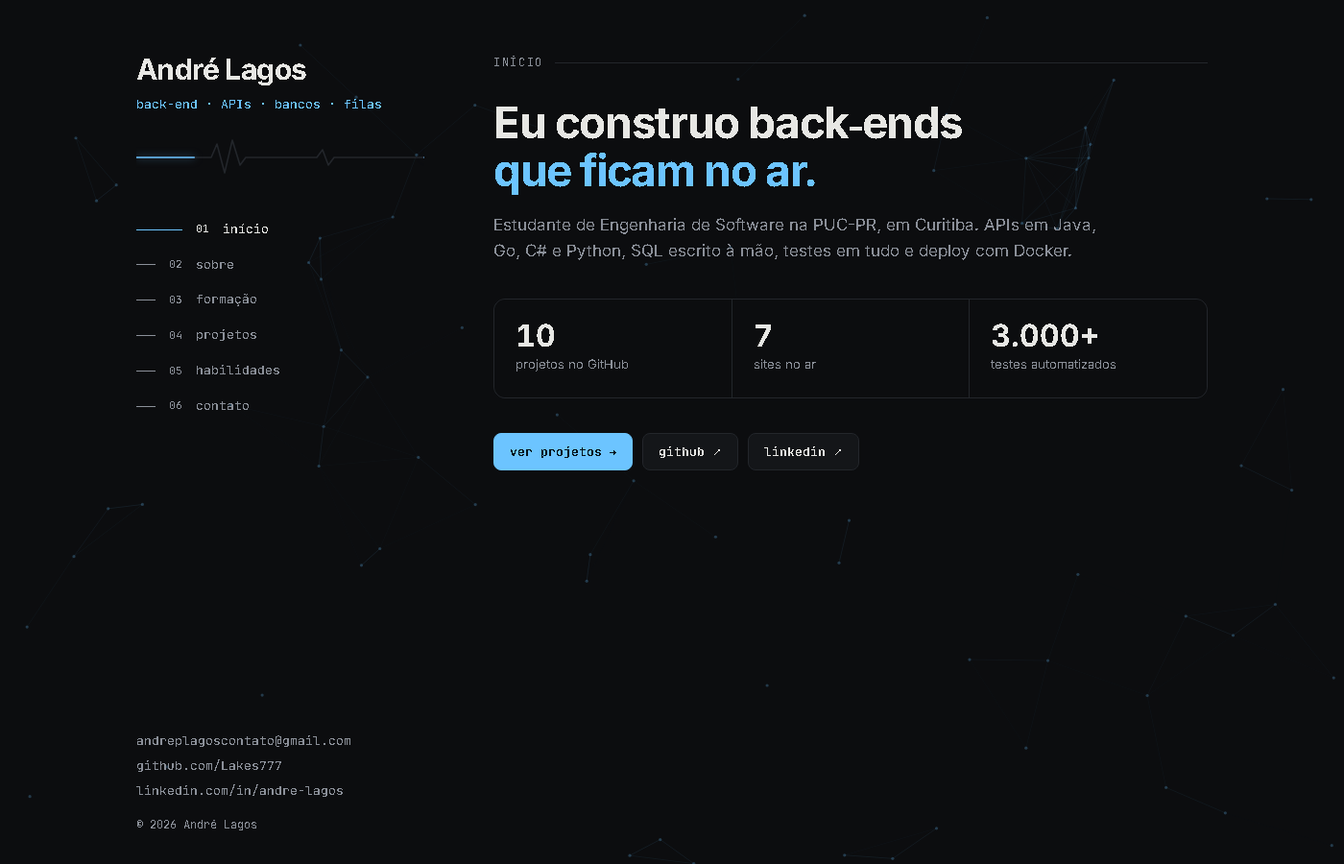
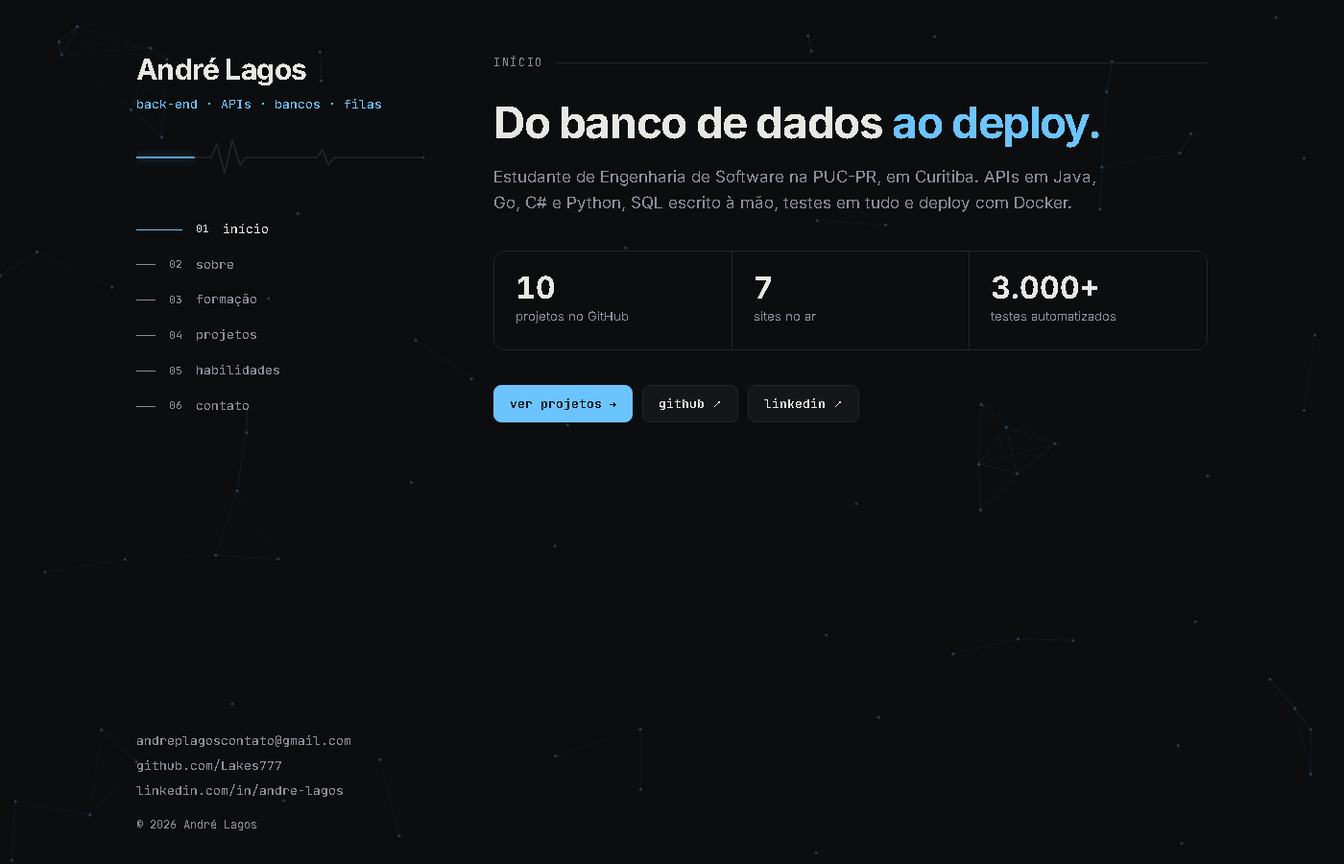
Acende a borda dos cards perto do mouse e liga cada habilidade aos projetos
Números que contam a cada abertura do Início, entrada das abas mais lenta,
frase nova (Do banco de dados ao deploy) e habilidades com onde foram usadas.

Changed region(s): [[0.3686, 0.1244, 0.8293, 0.56], [0.5836, 0.4667, 0.6143, 0.5289]]

diff --git a/index.html b/index.html
@@ -56,7 +56,7 @@
       <!-- ===== INÍCIO ===== -->
       <section id="inicio" aria-labelledby="t-inicio">
         <p class="rotulo mono">início</p>
-        <h1 class="item" id="t-inicio" tabindex="-1">Eu construo back‑ends <em>que ficam no ar.</em></h1>
+        <h1 class="item" id="t-inicio" tabindex="-1">Do banco de dados <em>ao deploy.</em></h1>
         <p class="lead item">Estudante de Engenharia de Software na PUC-PR, em Curitiba. APIs em Java, Go, C# e Python, SQL escrito à mão, testes em tudo e deploy com Docker.</p>
         <div class="numeros item">
           <div><b data-contar="10">10</b><small>projetos no GitHub</small></div>
@@ -81,10 +81,10 @@
           <p>Estou em busca de oportunidades em <strong>desenvolvimento</strong>, <strong>suporte técnico</strong> ou <strong>análise de dados</strong>, onde eu possa aplicar o que sei e continuar aprendendo.</p>
         </div>
         <ul class="cartoes item">
-          <li class="cartao"><small class="mono">formação</small><p>Eng. de Software · PUC-PR</p></li>
-          <li class="cartao"><small class="mono">back-end</small><p>Java, Go, C# e Python</p></li>
-          <li class="cartao"><small class="mono">deploy</small><p>Docker, Linux e GitHub Actions</p></li>
-          <li class="cartao"><small class="mono">idiomas</small><p>Inglês intermediário</p></li>
+          <li class="cartao luz"><small class="mono">formação</small><p>Eng. de Software · PUC-PR</p></li>
+          <li class="cartao luz"><small class="mono">back-end</small><p>Java, Go, C# e Python</p></li>
+          <li class="cartao luz"><small class="mono">deploy</small><p>Docker, Linux e GitHub Actions</p></li>
+          <li class="cartao luz"><small class="mono">idiomas</small><p>Inglês intermediário</p></li>
         </ul>
       </section>
 
@@ -113,7 +113,7 @@
         <p class="rotulo mono">projetos</p>
         <h2 class="item" id="t-projetos" tabindex="-1">Projetos</h2>
         <div class="projetos">
-          <article class="projeto item" data-vigil="Vigil">
+          <article class="projeto luz item" data-vigil="Vigil">
             <div class="projeto__topo"><h3>Vigil <small>· monitor de status</small></h3></div>
             <p>API em Java com Spring Boot que verifica os meus sites a cada 5 minutos, calcula disponibilidade e quedas em SQL e avisa pelo Telegram, com resumo semanal. Spring Security, proteção contra SSRF e página pública de status.</p>
             <div class="projeto__meta mono">
@@ -122,7 +122,7 @@
             </div>
           </article>
 
-          <article class="projeto item" data-vigil="Pursuit">
+          <article class="projeto luz item" data-vigil="Pursuit">
             <div class="projeto__topo"><h3>Pursuit <small>· candidaturas a vagas</small></h3></div>
             <p>Meu primeiro projeto em Go: quadro por etapa, funil e tempo de resposta em SQL, lembretes pelo Telegram feitos por uma goroutine e um link do Beacon por vaga, que mostra se a empresa abriu o portfólio.</p>
             <div class="projeto__meta mono">
@@ -131,7 +131,7 @@
             </div>
           </article>
 
-          <article class="projeto item" data-vigil="Beacon">
+          <article class="projeto luz item" data-vigil="Beacon">
             <div class="projeto__topo"><h3>Beacon <small>· links com estatísticas</small></h3></div>
             <p>Meu primeiro projeto em C# com .NET: encurtador de links com cache no Redis e cliques processados depois por uma fila no RabbitMQ, sem contar em dobro. Painel com gráficos e QR code, seis contêineres numa VM ARM da Oracle.</p>
             <div class="projeto__meta mono">
@@ -140,7 +140,7 @@
             </div>
           </article>
 
-          <article class="projeto item" data-vigil="Coursebook">
+          <article class="projeto luz item" data-vigil="Coursebook">
             <div class="projeto__topo"><h3>Coursebook <small>· painel de estudos</small></h3></div>
             <p>Painel da faculdade: notas por RA, faltas, agenda e a nota que falta para passar pela regra da PUC-PR. Funciona offline e sincroniza entre aparelhos com conta; acessível por teclado e leitor de tela.</p>
             <div class="projeto__meta mono">
@@ -149,7 +149,7 @@
             </div>
           </article>
 
-          <article class="projeto item" data-vigil="Spendwise">
+          <article class="projeto luz item" data-vigil="Spendwise">
             <div class="projeto__topo"><h3>Spendwise <small>· controle de gastos</small></h3></div>
             <p>Importa extratos do Nubank e OFX de qualquer banco sem duplicar, lembra a categoria de cada loja e alerta o orçamento. Versão de terminal e web em FastAPI com login seguro e demo isolada por visitante.</p>
             <div class="projeto__meta mono">
@@ -158,7 +158,7 @@
             </div>
           </article>
 
-          <article class="projeto item">
+          <article class="projeto luz item">
             <div class="projeto__topo"><h3>Encore <small>· karaokê com IA</small></h3></div>
             <p>Busca no YouTube, separa voz e instrumental com modelos de IA, detecta o tom e sincroniza a letra. Processa em pedaços para caber em 4 GB de RAM, com fila em segundo plano.</p>
             <div class="projeto__meta mono">
@@ -167,7 +167,7 @@
             </div>
           </article>
 
-          <article class="projeto item" data-vigil="Hanami">
+          <article class="projeto luz item" data-vigil="Hanami">
             <div class="projeto__topo"><h3>Hanami <small>· lista de animes</small></h3></div>
             <p>API REST que junta as temporadas de cada franquia, com comentários por episódio, e continua funcionando quando a API externa cai.</p>
             <p class="projeto__aviso mono" id="aviso-hanami">o servidor gratuito pode levar ~1 min para acordar</p>
@@ -177,7 +177,7 @@
             </div>
           </article>
 
-          <article class="projeto item">
+          <article class="projeto luz item">
             <div class="projeto__topo"><h3>Sidekick <small>· bot do Telegram</small></h3></div>
             <p>Cotações com alertas de preço, clima, lembretes e listas, rodando 24 horas numa VM Linux da Oracle como serviço do systemd.</p>
             <div class="projeto__meta mono">
@@ -186,7 +186,7 @@
             </div>
           </article>
 
-          <article class="projeto item">
+          <article class="projeto luz item">
             <div class="projeto__topo"><h3>Tidy <small>· organizador de arquivos</small></h3></div>
             <p>Organiza pastas por tipo ou data, acha duplicados por SHA-256 e desfaz mudanças, sem nunca sobrescrever arquivos.</p>
             <div class="projeto__meta mono">
@@ -195,7 +195,7 @@
             </div>
           </article>
 
-          <article class="projeto item" data-vigil="Portfólio">
+          <article class="projeto luz item" data-vigil="Portfólio">
             <div class="projeto__topo"><h3>Este portfólio</h3></div>
             <p>HTML, CSS e JavaScript puros, sem frameworks: abas por endereço, fundo animado em canvas e o selo ao vivo do Vigil em cada projeto.</p>
             <div class="projeto__meta mono">
@@ -210,13 +210,50 @@
       <section id="habilidades" aria-labelledby="t-habilidades">
         <p class="rotulo mono">habilidades</p>
         <h2 class="item" id="t-habilidades" tabindex="-1">Habilidades</h2>
-        <dl class="habs item">
-          <dt class="mono">back-end</dt><dd><span>Java</span><span>Spring Boot</span><span>Go</span><span>C# / .NET</span><span>Python</span><span>FastAPI</span></dd>
-          <dt class="mono">dados</dt><dd><span>PostgreSQL</span><span>Redis</span><span>RabbitMQ</span><span>SQLite</span><span>MySQL</span></dd>
-          <dt class="mono">front-end</dt><dd><span>TypeScript</span><span>React</span><span>JavaScript</span><span>HTML</span><span>CSS</span></dd>
-          <dt class="mono">deploy</dt><dd><span>Docker</span><span>Linux</span><span>GitHub Actions</span><span>Oracle Cloud</span><span>Vercel</span></dd>
-          <dt class="mono">também</dt><dd><span>ESP32</span><span>Arduino</span><span>Manutenção de PCs</span><span>Trabalho em equipe</span></dd>
-        </dl>
+        <p class="lead item">Cada uma com onde eu usei; os projetos estão todos na aba <a href="#projetos">projetos</a>.</p>
+        <div class="habs item">
+          <div class="hab luz">
+            <h3 class="hab__titulo mono"><span class="hab__glifo" aria-hidden="true">{ }</span>back-end</h3>
+            <ul>
+              <li><span class="hab__nome">Java</span><span class="so-leitor">, usado em </span><span class="hab__onde mono">Vigil</span></li>
+              <li><span class="hab__nome">Spring Boot</span><span class="so-leitor">, usado em </span><span class="hab__onde mono">Vigil</span></li>
+              <li><span class="hab__nome">Go</span><span class="so-leitor">, usado em </span><span class="hab__onde mono">Pursuit</span></li>
+              <li><span class="hab__nome">C# / .NET</span><span class="so-leitor">, usado em </span><span class="hab__onde mono">Beacon</span></li>
+              <li><span class="hab__nome">Python</span><span class="so-leitor">, usado em </span><span class="hab__onde mono">Spendwise · Hanami · Encore · Sidekick · Tidy</span></li>
+              <li><span class="hab__nome">FastAPI</span><span class="so-leitor">, usado em </span><span class="hab__onde mono">Spendwise · Hanami · Encore</span></li>
+            </ul>
+          </div>
+          <div class="hab luz">
+            <h3 class="hab__titulo mono"><span class="hab__glifo" aria-hidden="true">[ ]</span>dados</h3>
+            <ul>
+              <li><span class="hab__nome">PostgreSQL</span><span class="so-leitor">, usado em </span><span class="hab__onde mono">Vigil · Pursuit · Beacon · Spendwise · Coursebook</span></li>
+              <li><span class="hab__nome">Redis</span><span class="so-leitor">, usado em </span><span class="hab__onde mono">Beacon (cache)</span></li>
+              <li><span class="hab__nome">RabbitMQ</span><span class="so-leitor">, usado em </span><span class="hab__onde mono">Beacon (fila)</span></li>
+              <li><span class="hab__nome">SQLite</span><span class="so-leitor">, usado em </span><span class="hab__onde mono">Hanami · Sidekick · Spendwise</span></li>
+              <li><span class="hab__nome">MySQL</span><span class="so-leitor">, usado em </span><span class="hab__onde mono">faculdade</span></li>
+            </ul>
+          </div>
+          <div class="hab luz">
+            <h3 class="hab__titulo mono"><span class="hab__glifo" aria-hidden="true">&lt;/&gt;</span>front-end</h3>
+            <ul>
+              <li><span class="hab__nome">TypeScript</span><span class="so-leitor">, usado em </span><span class="hab__onde mono">Coursebook · Encore</span></li>
+              <li><span class="hab__nome">React</span><span class="so-leitor">, usado em </span><span class="hab__onde mono">Coursebook · Encore</span></li>
+              <li><span class="hab__nome">JavaScript</span><span class="so-leitor">, usado em </span><span class="hab__onde mono">Vigil · Pursuit · Beacon · Spendwise · Hanami · este site</span></li>
+              <li><span class="hab__nome">HTML e CSS</span><span class="so-leitor">, usado em </span><span class="hab__onde mono">todos os projetos com interface</span></li>
+            </ul>
+          </div>
+          <div class="hab luz">
+            <h3 class="hab__titulo mono"><span class="hab__glifo" aria-hidden="true">$_</span>deploy</h3>
+            <ul>
+              <li><span class="hab__nome">Docker</span><span class="so-leitor">, usado em </span><span class="hab__onde mono">Vigil · Pursuit · Beacon</span></li>
+              <li><span class="hab__nome">Linux</span><span class="so-leitor">, usado em </span><span class="hab__onde mono">VMs da Oracle, systemd</span></li>
+              <li><span class="hab__nome">GitHub Actions</span><span class="so-leitor">, usado em </span><span class="hab__onde mono">testes e CI nos 9 projetos de código</span></li>
+              <li><span class="hab__nome">Oracle Cloud</span><span class="so-leitor">, usado em </span><span class="hab__onde mono">Vigil · Pursuit · Beacon · Sidekick</span></li>
+              <li><span class="hab__nome">Vercel</span><span class="so-leitor">, usado em </span><span class="hab__onde mono">Coursebook · Spendwise</span></li>
+            </ul>
+          </div>
+        </div>
+        <p class="habs__tambem item mono">também: ESP32 e Arduino (protótipos de IoT) · manutenção de computadores · inglês intermediário</p>
       </section>
 
       <!-- ===== CONTATO ===== -->

diff --git a/css/style.css b/css/style.css
@@ -72,8 +72,22 @@ h1 em { font-style: normal; color: var(--cor) }
 /* ---------- abas (com JavaScript): uma seção por vez; sem JavaScript, todas aparecem ---------- */
 .js-abas main > section { margin-top: 0 }
 .js-abas main > section:not(.aberta) { display: none }
-@keyframes subir { from { opacity: 0; transform: translateY(10px) } }
-.js-abas .entrando .item { animation: subir .5s var(--suave) both; animation-delay: calc(var(--i, 0) * 55ms) }
+@keyframes subir { from { opacity: 0; transform: translateY(16px) } }
+.js-abas .entrando .item { animation: subir .85s var(--suave) both; animation-delay: calc(var(--i, 0) * 90ms) }
+
+/* ---------- luz que segue o mouse ----------
+   Cada card com .luz recebe a posição do mouse (--mx, --my, relativa a ele, posta pelo main.js) e
+   acende a BORDA perto do cursor (um anel de 1 px recortado com mask), mesmo sem o mouse em cima:
+   a luz "vaza" para os cards vizinhos. Some devagar quando o mouse sai da área. */
+.luz { position: relative; isolation: isolate }
+.luz::after { content: ""; position: absolute; inset: -1px; border-radius: inherit; padding: 1px; pointer-events: none; z-index: 1;
+  background: radial-gradient(240px circle at var(--mx, -999px) var(--my, -999px), rgba(var(--cor-rgb), .7), rgba(var(--cor-rgb), .12) 45%, transparent 70%);
+  -webkit-mask: linear-gradient(#000 0 0) content-box, linear-gradient(#000 0 0); -webkit-mask-composite: xor;
+  mask: linear-gradient(#000 0 0) content-box exclude, linear-gradient(#000 0 0);
+  opacity: 0; transition: opacity .7s var(--suave) }
+.com-luz .luz::after { opacity: 1 }
+/* Dentro do card, um brilho fraco também acompanha o mouse; em cima do card, ele fica mais forte */
+.com-luz .projeto::before { opacity: .45 }
 
 /* ---------- início ---------- */
 .numeros { display: grid; grid-template-columns: repeat(3, 1fr); gap: 1px; background: var(--linha); border: 1px solid var(--linha); border-radius: 12px; overflow: hidden; margin: 36px 0 }
@@ -106,7 +120,9 @@ h1 em { font-style: normal; color: var(--cor) }
 
 /* ---------- projetos ---------- */
 .projetos { display: grid; gap: 6px }
-.projeto { position: relative; display: grid; gap: 4px; padding: 20px 22px; margin: 0 -22px; border-radius: 14px; border: 1px solid transparent; isolation: isolate;
+.projeto { position: relative; display: grid; gap: 4px; padding: 20px 22px; margin: 0 -22px; border-radius: 14px;
+  /* Uma borda bem apagada sempre: é nela que a luz do mouse acende */
+  border: 1px solid rgba(35, 38, 43, .55);
   /* O destaque entra e sai devagar, pousando suave: fundo, borda, sombra e uma subida de 2 px juntos */
   transition: background-color .5s var(--suave), border-color .5s var(--suave), box-shadow .5s var(--suave), transform .5s var(--suave) }
 /* O brilho que segue o mouse fica numa camada própria, que aparece aos poucos (opacity), em vez de surgir de uma vez */
@@ -139,13 +155,23 @@ h1 em { font-style: normal; color: var(--cor) }
 .selo--fora { color: var(--erro) } .selo--fora .selo__ponto { animation: none }
 .selo:hover { text-decoration: underline; text-underline-offset: 3px }
 
-/* ---------- habilidades ---------- */
-.habs { display: grid; grid-template-columns: 140px 1fr; gap: 18px 24px; margin: 0 }
-.habs dt { color: var(--apagado); font-size: 12px; padding-top: 6px }
-.habs dd { margin: 0; display: flex; flex-wrap: wrap; gap: 8px }
-.habs dd span { border: 1px solid var(--linha); background: var(--painel); border-radius: 8px; padding: 5px 12px; font-size: 14px;
-  transition: border-color .4s var(--suave), color .4s var(--suave), transform .4s var(--suave) }
-.habs dd span:hover { border-color: rgba(var(--cor-rgb), .5); color: var(--cor); transform: translateY(-1px) }
+/* ---------- habilidades: cada uma com o projeto em que foi usada ---------- */
+.habs { display: grid; grid-template-columns: repeat(2, minmax(0, 1fr)); gap: 14px; margin-top: 32px }
+.hab { background: rgba(20, 22, 25, .72); border: 1px solid var(--linha); border-radius: 14px; padding: 20px 22px 12px }
+.hab__titulo { display: flex; align-items: center; gap: 10px; margin: 0 0 8px; font-size: 12px; font-weight: 500; color: var(--apagado); text-transform: uppercase; letter-spacing: .14em }
+.hab__glifo { color: var(--cor); letter-spacing: 0; font-weight: 700 }
+.hab li { display: flex; justify-content: space-between; align-items: baseline; gap: 16px; padding: 10px 0; border-top: 1px solid rgba(35, 38, 43, .8) }
+.hab li:first-child { border-top: 0 }
+.hab__nome { font-size: 15px; font-weight: 500; position: relative; white-space: nowrap; transition: color .4s var(--suave), transform .4s var(--suave) }
+.hab__nome::before { content: ""; position: absolute; left: -12px; top: 50%; width: 5px; height: 5px; margin-top: -2.5px; border-radius: 50%;
+  background: var(--cor); opacity: 0; transform: scale(.4); transition: opacity .4s var(--suave), transform .4s var(--suave) }
+.hab__onde { font-size: 11.5px; color: var(--apagado); text-align: right; transition: color .4s var(--suave) }
+@media (hover: hover) {
+  .hab li:hover .hab__nome { color: var(--cor); transform: translateX(4px) }
+  .hab li:hover .hab__nome::before { opacity: 1; transform: none }
+  .hab li:hover .hab__onde { color: var(--texto) }
+}
+.habs__tambem { margin: 22px 0 0; font-size: 12.5px; color: var(--apagado) }
 
 /* ---------- contato ---------- */
 .email { display: inline-block; margin-top: 18px; font: 700 clamp(22px, 4vw, 40px)/1.15 Inter, sans-serif; letter-spacing: -.02em; text-decoration: none; overflow-wrap: anywhere;
@@ -171,7 +197,8 @@ h1 em { font-style: normal; color: var(--cor) }
   .lado__contato { display: none }
   main { padding-top: 28px; min-height: 0 }
   .numeros, .cartoes { grid-template-columns: 1fr }
-  .habs { grid-template-columns: 1fr; gap: 6px } .habs dd { margin-bottom: 14px }
+  .habs { grid-template-columns: 1fr }
+  .hab li { flex-direction: column; gap: 2px } .hab__onde { text-align: left }
   .projeto { margin: 0 -12px; padding: 16px 12px }
   .projeto__links { margin-left: 0; width: 100%; margin-top: 4px }
 }
@@ -179,5 +206,5 @@ h1 em { font-style: normal; color: var(--cor) }
 @media (prefers-reduced-motion: reduce) {
   html { scroll-behavior: auto }
   *, *::before, *::after { animation: none !important; transition: none !important }
-  .projeto:hover, .botao:hover, .habs dd span:hover { transform: none }
+  .projeto:hover, .botao:hover, .hab li:hover .hab__nome { transform: none }
 }

diff --git a/js/main.js b/js/main.js
@@ -1,6 +1,13 @@
 // Portfólio: abas por endereço, fundo de rede em canvas, brilho que segue o mouse nos projetos,
 // números que contam, copiar e-mail e o selo "no ar" ao vivo do Vigil.
 const reduzir = matchMedia("(prefers-reduced-motion: reduce)").matches;
+// Aqui em cima porque a primeira aba abre (e conta os números) logo abaixo, antes do resto do arquivo
+const numero = new Intl.NumberFormat("pt-BR");
+const contagens = new WeakMap(); // a contagem em andamento de cada número (para recomeçar sem duas juntas)
+// Da luz que segue o mouse (a abrirAba também a atualiza)
+const principal = document.querySelector("main");
+let pendente = null;
+let ultimo = null; // a posição mais recente do mouse: vários movimentos podem chegar no mesmo quadro
 
 // =========================================================
 // ABAS: cada seção aparece sozinha, escolhida pelo endereço (#projetos...).
@@ -9,7 +16,6 @@ const reduzir = matchMedia("(prefers-reduced-motion: reduce)").matches;
 document.documentElement.classList.add("js-abas");
 const secoes = Array.from(document.querySelectorAll("main > section[id]"));
 const linksDasAbas = Array.from(document.querySelectorAll(".abas a"));
-const jaContou = new Set();
 
 // Cada bloco da seção entra um pouco depois do anterior (o atraso vem de --i)
 secoes.forEach((secao) => {
@@ -39,10 +45,9 @@ function abrirAba(focar) {
   void atual.offsetWidth;
   atual.classList.add("entrando");
 
-  if (!jaContou.has(atual.id)) {
-    jaContou.add(atual.id);
-    atual.querySelectorAll("[data-contar]").forEach(contar);
-  }
+  atualizarLuz();
+  // Os números contam toda vez que a aba abre (a contagem é curta)
+  atual.querySelectorAll("[data-contar]").forEach(contar);
   // Cada aba começa do topo: sem isso, abrir "#projetos" rolaria até a seção, como numa âncora comum.
   // Ao trocar pelo menu, o foco vai para o título (quem usa leitor de tela ouve onde está).
   window.scrollTo({ top: 0, behavior: "instant" });
@@ -62,22 +67,28 @@ abrirAba(false);
 window.addEventListener("load", () => window.scrollTo({ top: 0, behavior: "instant" }), { once: true });
 
 // =========================================================
-// NÚMEROS que contam até o valor (só na primeira vez que a aba abre)
+// NÚMEROS que contam até o valor, toda vez que a aba abre
 // =========================================================
-const numero = new Intl.NumberFormat("pt-BR");
 function contar(elemento) {
   const alvo = Number(elemento.dataset.contar);
   const sufixo = elemento.dataset.sufixo || "";
   if (reduzir) return; // o HTML já traz o valor final
-  const inicio = performance.now();
-  const duracao = 1100;
+  cancelAnimationFrame(contagens.get(elemento));
+  elemento.textContent = "0" + sufixo;
+  // Começa depois que o bloco termina de entrar (o atraso dele vem de --i) e conta o tempo a partir
+  // do primeiro quadro desenhado: medido de antes, uma página lenta para aparecer pularia direto ao fim
+  const bloco = elemento.closest(".item");
+  const espera = 250 + Number(bloco?.style.getPropertyValue("--i") || 0) * 90;
+  const duracao = 1400;
+  let inicio = null;
   const passo = (agora) => {
-    const t = Math.min(1, (agora - inicio) / duracao);
-    const suave = 1 - Math.pow(1 - t, 3);
+    inicio ??= agora + espera;
+    const t = Math.min(1, Math.max(0, (agora - inicio) / duracao));
+    const suave = 1 - Math.pow(1 - t, 4);
     elemento.textContent = numero.format(Math.round(alvo * suave)) + sufixo;
-    if (t < 1) requestAnimationFrame(passo);
+    if (t < 1) contagens.set(elemento, requestAnimationFrame(passo));
   };
-  requestAnimationFrame(passo);
+  contagens.set(elemento, requestAnimationFrame(passo));
 }
 
 // =========================================================
@@ -160,20 +171,36 @@ ajustarRede();
 ligarRede();
 
 // =========================================================
-// BRILHO QUE SEGUE O MOUSE dentro de cada projeto (só no que está embaixo do mouse,
-// no máximo uma vez por quadro)
+// LUZ QUE SEGUE O MOUSE: todos os cards da aba aberta recebem a posição do mouse relativa a cada
+// um, e a borda perto do cursor acende, mesmo sem o mouse em cima do card (no máximo uma vez por quadro)
 // =========================================================
-let pendente = null;
-document.querySelector(".projetos").addEventListener("pointermove", (e) => {
-  const card = e.target.closest(".projeto");
-  if (!card) return;
-  if (pendente) cancelAnimationFrame(pendente);
+const comMouse = matchMedia("(hover: hover)").matches;
+
+// Recalcula a luz no próximo quadro: ao mexer o mouse, ao rolar (os cards andam, o mouse não) e ao
+// trocar de aba (os cards da aba nova guardavam a posição de quando ela esteve aberta)
+function atualizarLuz() {
+  if (!ultimo || pendente) return;
   pendente = requestAnimationFrame(() => {
-    const r = card.getBoundingClientRect();
-    card.style.setProperty("--mx", `${e.clientX - r.left}px`);
-    card.style.setProperty("--my", `${e.clientY - r.top}px`);
+    pendente = null;
+    const cards = Array.from(principal.querySelectorAll("section.aberta .luz"));
+    // Primeiro mede todos, depois escreve todos: medir logo depois de escrever obrigaria o navegador
+    // a recalcular o estilo a cada card
+    const caixas = cards.map((card) => card.getBoundingClientRect());
+    cards.forEach((card, i) => {
+      card.style.setProperty("--mx", `${ultimo.x - caixas[i].left}px`);
+      card.style.setProperty("--my", `${ultimo.y - caixas[i].top}px`);
+    });
   });
-}, { passive: true });
+}
+if (comMouse) {
+  principal.addEventListener("pointermove", (e) => {
+    ultimo = { x: e.clientX, y: e.clientY };
+    principal.classList.add("com-luz");
+    atualizarLuz();
+  }, { passive: true });
+  principal.addEventListener("pointerleave", () => principal.classList.remove("com-luz"));
+  window.addEventListener("scroll", atualizarLuz, { passive: true });
+}
 
 // =========================================================
 // COPIAR E-MAIL

diff --git a/README.md b/README.md
@@ -26,8 +26,10 @@ Meu site pessoal, feito do zero com **HTML, CSS e JavaScript puros** e publicado
 - **Fundo de rede**: pontos que andam devagar e se ligam quando ficam perto, como um mapa de serviços,
   desenhados num `<canvas>`; perto do mouse, acendem. A animação para quando a aba do navegador fica escondida
 - **Pulso embaixo do nome**: uma linha de batimento animada, o mesmo tema do [Vigil](https://github.com/Lakes777/vigil)
-- **Cards de projeto com destaque suave**: fundo, borda, sombra e uma leve subida entram juntos e devagar,
-  e um brilho segue o mouse dentro do card
+- **Cards de projeto com destaque suave**: fundo, borda, sombra e uma leve subida entram juntos e devagar
+- **Luz que segue o mouse**: a borda dos cards (projetos, habilidades e os cartões do Sobre) acende perto
+  do cursor, mesmo sem o mouse em cima, e um brilho fraco acompanha o mouse por dentro dos projetos
+- **Habilidades ligadas aos projetos**: cada uma mostra onde foi usada (Go no Pursuit, Redis no Beacon...)
 - **Números que contam** e blocos que entram em sequência ao abrir cada aba
 - **Selo "no ar" ao vivo** nos projetos publicados: a página lê a API do Vigil (o monitor de status que
   fiz em Java) e mostra a situação e a disponibilidade em 30 dias; se o Vigil não responder, os cards só
